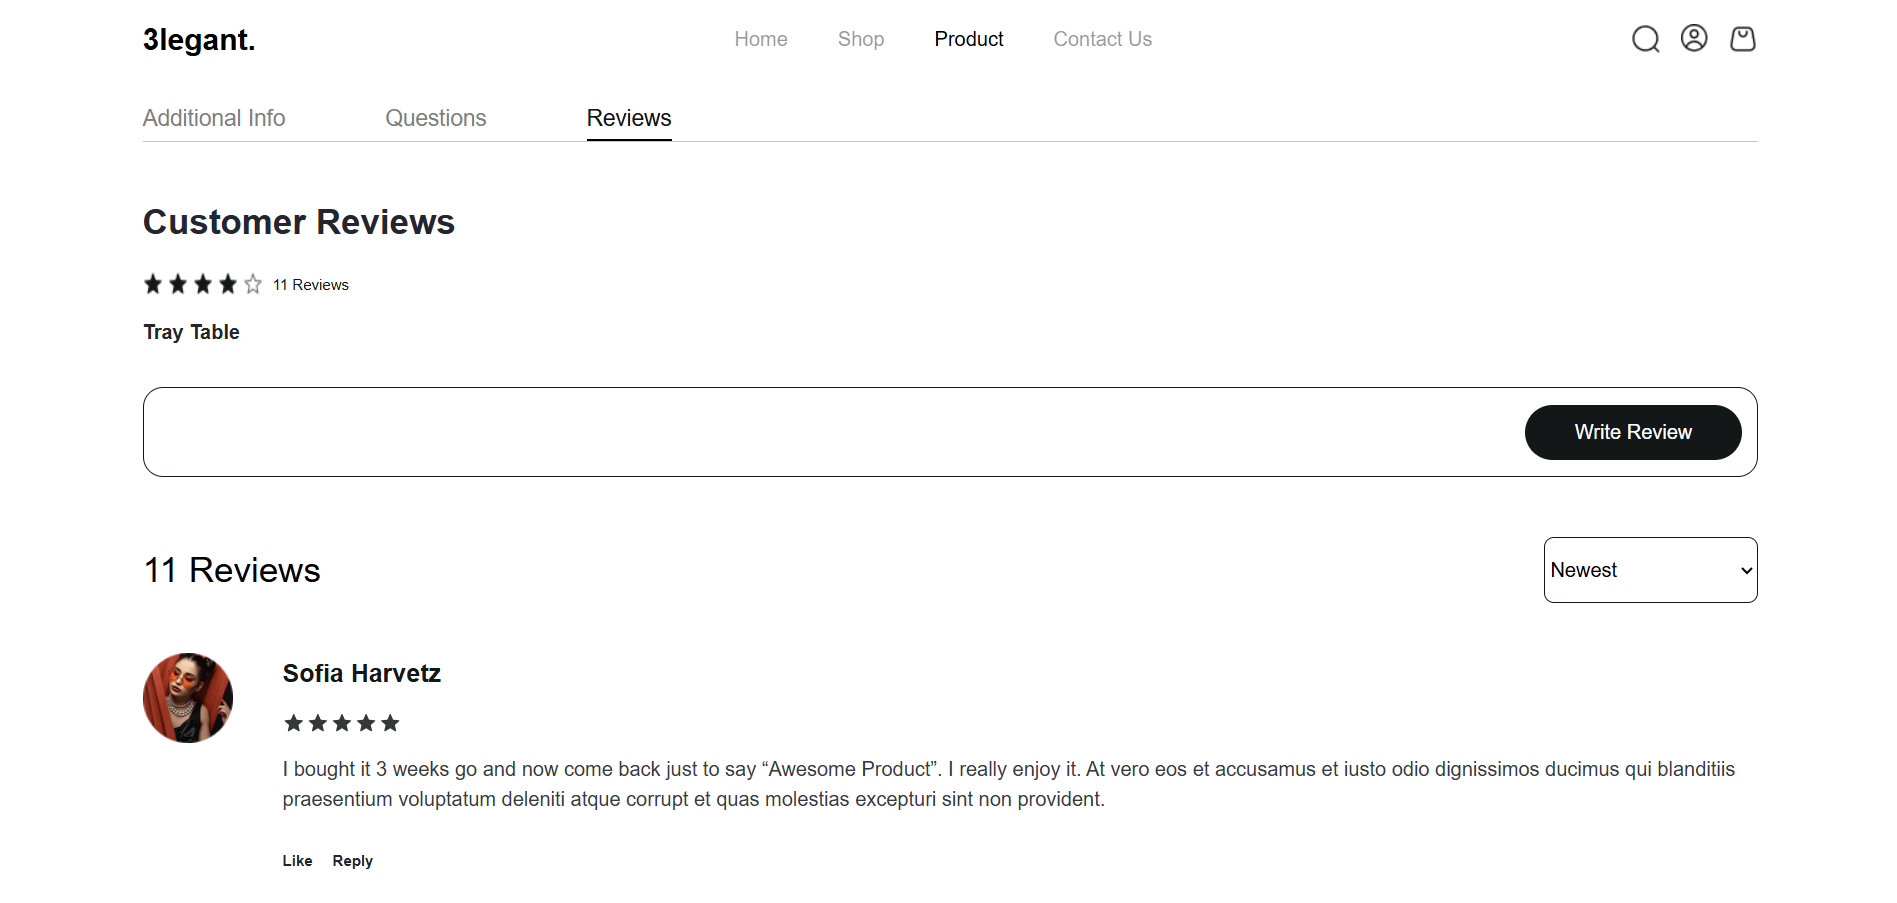
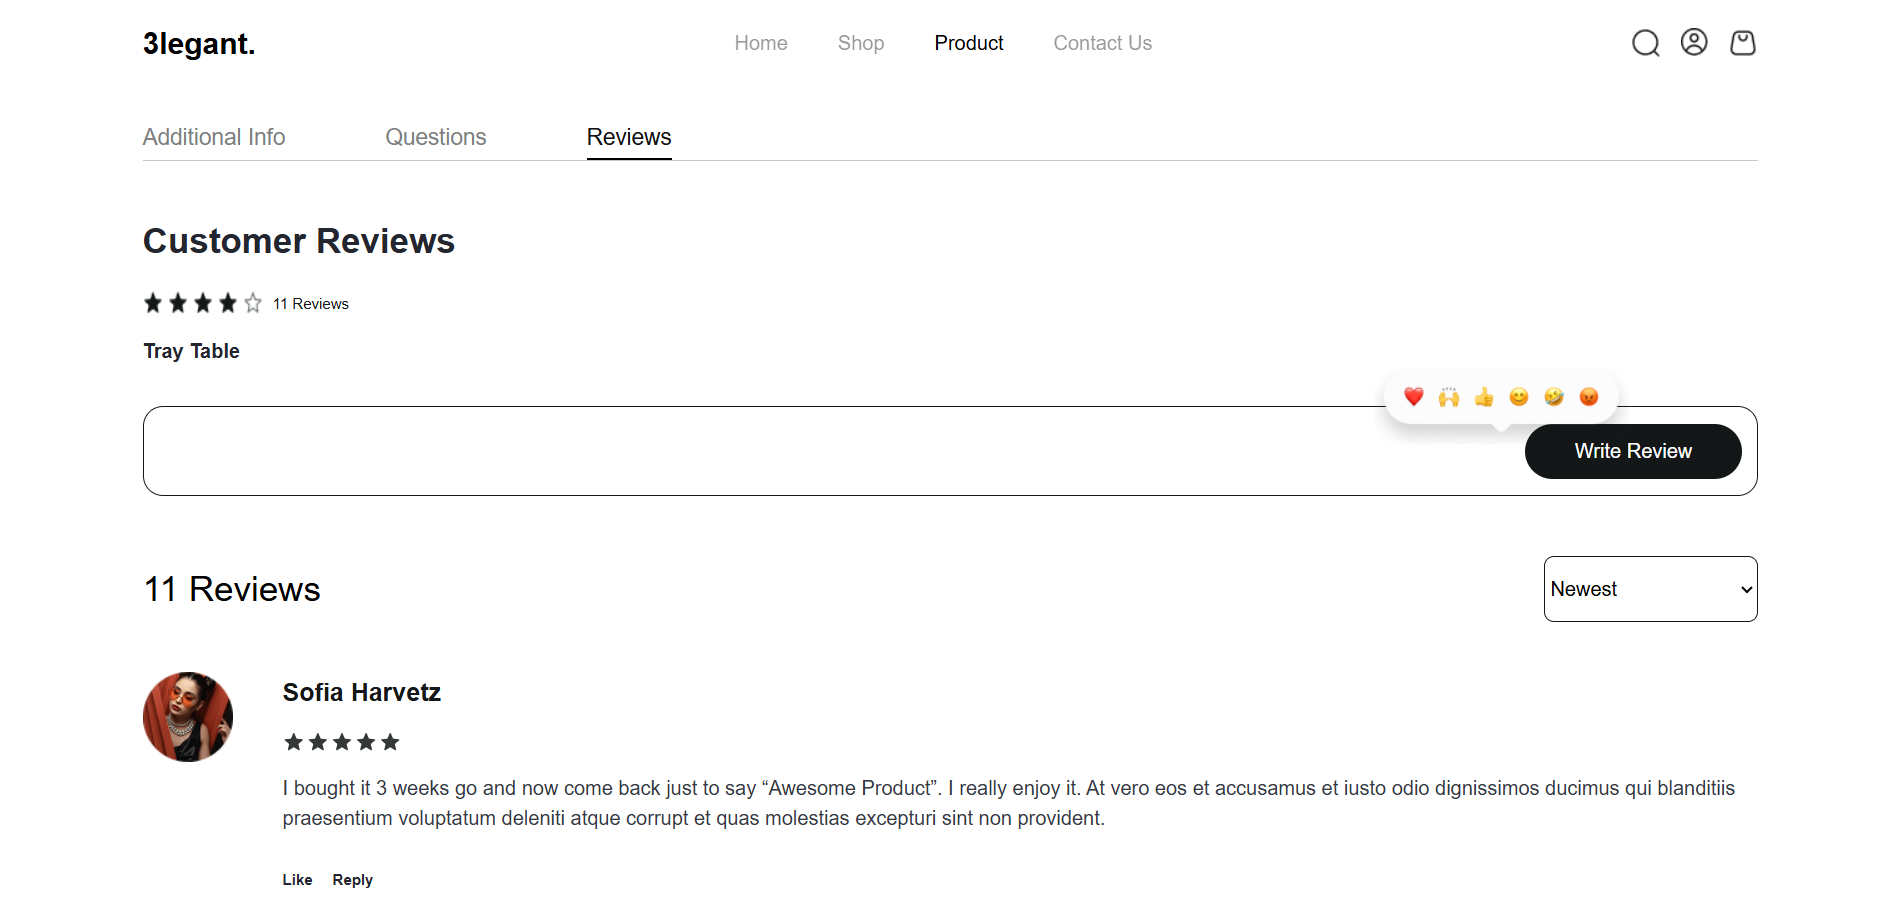
update README

diff --git a/README.md b/README.md
@@ -22,8 +22,8 @@ The project focuses on creating a clean, user-friendly shopping experience with 
 * Shop
 * Product Details
 * Cart
-* personal account
-* login
+* My Account
+* Login
 * Blog
 * Contact
 
